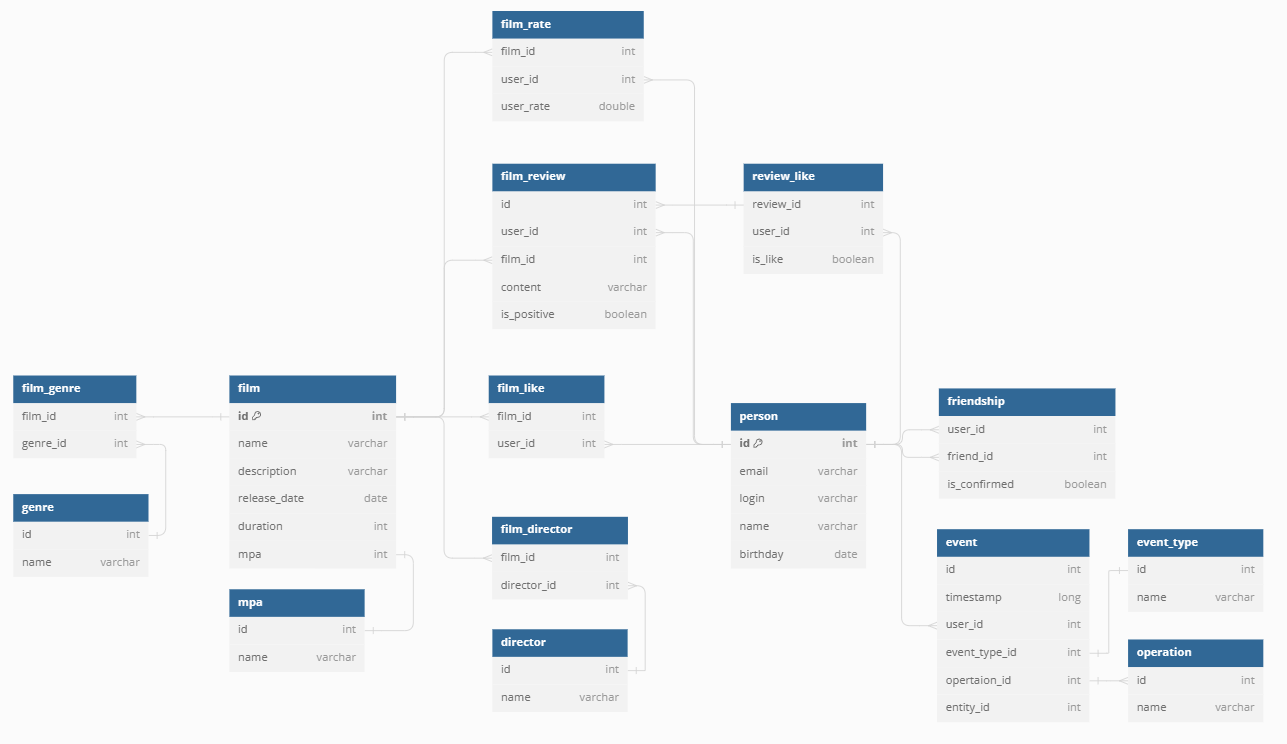
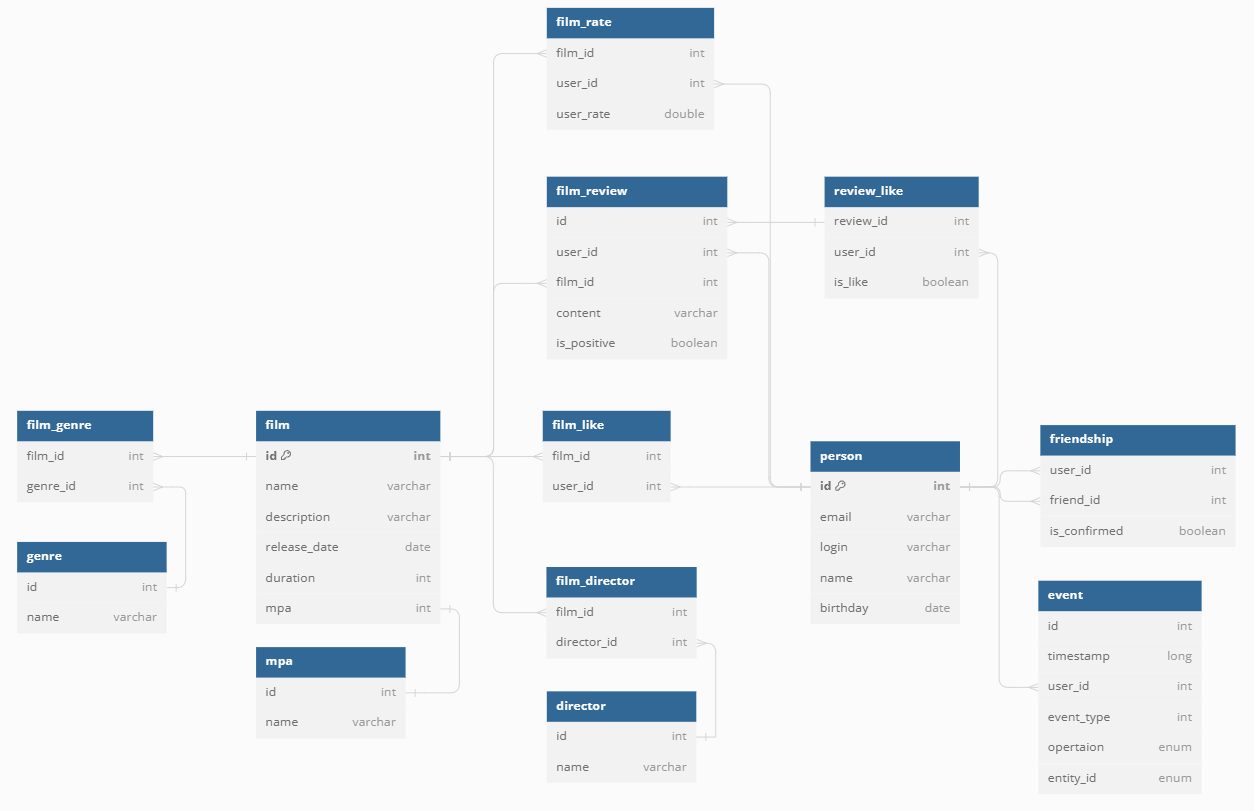
feature: add-feed

diff --git a/src/main/java/ru/yandex/practicum/filmorate/storage/userEvent/EventDbStorage.java b/src/main/java/ru/yandex/practicum/filmorate/storage/userEvent/EventDbStorage.java
@@ -3,11 +3,87 @@ package ru.yandex.practicum.filmorate.storage.userEvent;
 import lombok.RequiredArgsConstructor;
 import lombok.extern.slf4j.Slf4j;
 import org.springframework.jdbc.core.JdbcTemplate;
+import org.springframework.jdbc.core.RowMapper;
+import org.springframework.jdbc.core.simple.SimpleJdbcInsert;
 import org.springframework.stereotype.Component;
+import ru.yandex.practicum.filmorate.model.Event;
+import ru.yandex.practicum.filmorate.model.EventType;
+import ru.yandex.practicum.filmorate.model.Operation;
+
+import java.sql.ResultSet;
+import java.sql.SQLException;
+import java.util.HashMap;
+import java.util.List;
+import java.util.Map;
 
 @Component
 @RequiredArgsConstructor
 @Slf4j
 public class EventDbStorage implements EventStorage {
     private final JdbcTemplate jdbcTemplate;
+
+    @Override
+    public int addEvent(final Event event) {
+        log.debug("EventDbStorage - addEvent()");
+
+        log.info("Начала добавления события в таблицу: {}", event.toString());
+
+        SimpleJdbcInsert jdbcInsert = new SimpleJdbcInsert(jdbcTemplate)
+                .withTableName("event")
+                .usingGeneratedKeyColumns("id");
+
+        Map<String, Object> params = new HashMap<>();
+
+        params.put("time_stamp", event.getTimestamp());
+        params.put("user_id", event.getUserId());
+        params.put("entity_id", event.getEntityId());
+        params.put("event_type", event.getEventType().toString());
+        params.put("operation", event.getOperation().toString());
+
+        int eventId = jdbcInsert.executeAndReturnKey(params).intValue();
+        log.info("Занесено событие с id: {}", eventId);
+
+        return eventId;
+    }
+
+    @Override
+    public List<Event> getEventsByUserId(final int userId) {
+        log.debug("EventDbStorage - getEventsByUserId()");
+
+        String sqlRequest = "SELECT * FROM event WHERE user_id = ?;";
+        RowMapper<Event> eventMapper = (rs, rowNum) -> makeEvent(rs);
+
+        return jdbcTemplate.query(sqlRequest, eventMapper, userId);
+
+    }
+
+    @Override
+    public Event getEventById(int eventId) {
+        log.debug("EventDbStorage - getEventById())");
+
+        String sqlRequest = "SELECT * FROM event WHERE id = ?";
+        RowMapper<Event> eventMapper = (rs, rowNum) -> makeEvent(rs);
+
+        return jdbcTemplate.queryForObject(sqlRequest, eventMapper, eventId);
+    }
+
+    public Event makeEvent(ResultSet rs) throws SQLException {
+        log.debug("EventDbStorage - makeEvent())");
+
+        int eventId = rs.getInt("id");
+        long timestamp = rs.getLong("time_stamp");
+        int userId = rs.getInt("user_id");
+        EventType eventType = EventType.valueOf(rs.getString("event_type"));
+        Operation operation = Operation.valueOf(rs.getString("operation"));
+        int entityId = rs.getInt("entity_id");
+
+        return Event.builder()
+                .eventId(eventId)
+                .timestamp(timestamp)
+                .userId(userId)
+                .eventType(eventType)
+                .operation(operation)
+                .entityId(entityId)
+                .build();
+    }
 }

diff --git a/src/main/java/ru/yandex/practicum/filmorate/controller/UserController.java b/src/main/java/ru/yandex/practicum/filmorate/controller/UserController.java
@@ -4,9 +4,8 @@ import lombok.RequiredArgsConstructor;
 import lombok.extern.slf4j.Slf4j;
 import org.springframework.web.bind.annotation.*;
 import ru.yandex.practicum.filmorate.exception.MethodNotImplemented;
-import ru.yandex.practicum.filmorate.model.Event;
-import ru.yandex.practicum.filmorate.model.Film;
-import ru.yandex.practicum.filmorate.model.User;
+import ru.yandex.practicum.filmorate.model.*;
+import ru.yandex.practicum.filmorate.service.EventService;
 import ru.yandex.practicum.filmorate.service.UserService;
 
 import javax.validation.Valid;
@@ -18,6 +17,7 @@ import java.util.List;
 @RequestMapping("/users")
 public class UserController {
     private final UserService service;
+    private final EventService eventService;
 
     @GetMapping
     public List<User> receiveUsers(@RequestParam(defaultValue = "10") int count) {
@@ -45,15 +45,26 @@ public class UserController {
     @PutMapping(value = "/{id}/friends/{friendId}")
     public User addToFriend(@PathVariable(name = "id") int userId,
                             @PathVariable int friendId) {
-        log.debug("/users/{}/friends/{}} - PUT: addToFriend()", userId, friendId);
-        return service.addToFriend(userId, friendId);
+        log.debug("/users/{id}/friends/{friendId}} - PUT: addToFriend()");
+
+        User user = service.addToFriend(userId, friendId);
+
+        Event event = eventService.addEvent(userId, friendId, EventType.FRIEND, Operation.ADD);
+        log.info("Событие добавления в друзья к пользователю зарегистрировано: {}", event);
+
+        return user;
     }
 
     @DeleteMapping(value = "/{id}/friends/{friendId}")
     public User deleteFromFriend(@PathVariable(name = "id") int userId,
                                  @PathVariable int friendId) {
         log.debug("/users/{id}/friends/{friendId}} - DELETE: deleteFromFriend()");
-        return service.deleteFromFriend(userId, friendId);
+        User user = service.deleteFromFriend(userId, friendId);
+
+        Event event = eventService.addEvent(userId, friendId, EventType.FRIEND, Operation.REMOVE);
+        log.info("Событие добавления в друзья к пользователю зарегистрировано: {}", event);
+
+        return user;
     }
 
     @GetMapping(value = "/{id}/friends")
@@ -76,11 +87,10 @@ public class UserController {
         throw new MethodNotImplemented("Метод удаления пользователей по идентификатору");
     }
 
-    // TODO: Функциональность «Лента событий». 3 SP. Реализовать функциональность
     @GetMapping("/{id}/feed")
     public List<Event> getUserFeed(@PathVariable(name = "id") final int userId) {
         log.debug("/users/{}/feed - GET: getUserFeed()", userId);
-        throw new MethodNotImplemented("Метод получения списка событий пользователя");
+        return eventService.getUserFeed(userId);
     }
 
     //    TODO: Функциональность «Рекомендации». 3 SP. Реализовать функциональность

diff --git a/src/main/java/ru/yandex/practicum/filmorate/controller/ReviewController.java b/src/main/java/ru/yandex/practicum/filmorate/controller/ReviewController.java
@@ -3,7 +3,11 @@ package ru.yandex.practicum.filmorate.controller;
 import lombok.RequiredArgsConstructor;
 import lombok.extern.slf4j.Slf4j;
 import org.springframework.web.bind.annotation.*;
+import ru.yandex.practicum.filmorate.model.Event;
+import ru.yandex.practicum.filmorate.model.EventType;
+import ru.yandex.practicum.filmorate.model.Operation;
 import ru.yandex.practicum.filmorate.model.Review;
+import ru.yandex.practicum.filmorate.service.EventService;
 import ru.yandex.practicum.filmorate.service.ReviewService;
 
 import javax.validation.Valid;
@@ -15,23 +19,54 @@ import java.util.List;
 @RequestMapping("/reviews")
 public class ReviewController {
     private final ReviewService service;
+    private final EventService eventService;
 
     @PostMapping
     public Review createReview(@Valid @RequestBody final Review review) {
         log.debug("/reviews - POST: createReview()");
-        return service.createReview(review);
+
+        Review createdReview = service.createReview(review);
+
+        Event event = eventService.addEvent(createdReview.getUserId(),
+                createdReview.getId(),
+                EventType.REVIEW,
+                Operation.ADD);
+
+        log.info("Событие создания отзыва к фильму зарегистрировано: {}", event);
+
+        return createdReview;
     }
 
     @PutMapping
     public Review updateReview(@Valid @RequestBody final Review review) {
         log.debug("/reviews - PUT: updateReview()");
-        return service.updateReview(review);
+
+        Review updatedReview = service.updateReview(review);
+
+        Event event = eventService.addEvent(updatedReview.getUserId(),
+                updatedReview.getId(),
+                EventType.REVIEW,
+                Operation.UPDATE);
+
+        log.info("Событие создания отзыва к фильму зарегистрировано: {}", event);
+
+        return updatedReview;
     }
 
     @DeleteMapping("/{id}")
     public Review deleteReviewById(@PathVariable(name = "id") final int reviewId) {
         log.debug("/reviews/{} - DELETE: deleteReviewById()", reviewId);
-        return service.deleteReviewById(reviewId);
+
+        Review deletedReview = service.deleteReviewById(reviewId);
+
+        Event event = eventService.addEvent(deletedReview.getUserId(),
+                deletedReview.getId(),
+                EventType.REVIEW,
+                Operation.REMOVE);
+
+        log.info("Событие создания отзыва к фильму зарегистрировано: {}", event);
+
+        return deletedReview;
     }
 
     @GetMapping("/{id}")

diff --git a/src/main/java/ru/yandex/practicum/filmorate/controller/FilmController.java b/src/main/java/ru/yandex/practicum/filmorate/controller/FilmController.java
@@ -4,7 +4,11 @@ import lombok.RequiredArgsConstructor;
 import lombok.extern.slf4j.Slf4j;
 import org.springframework.web.bind.annotation.*;
 import ru.yandex.practicum.filmorate.exception.MethodNotImplemented;
+import ru.yandex.practicum.filmorate.model.Event;
+import ru.yandex.practicum.filmorate.model.EventType;
 import ru.yandex.practicum.filmorate.model.Film;
+import ru.yandex.practicum.filmorate.model.Operation;
+import ru.yandex.practicum.filmorate.service.EventService;
 import ru.yandex.practicum.filmorate.service.FilmService;
 
 import javax.validation.Valid;
@@ -16,6 +20,7 @@ import java.util.List;
 @RequestMapping("/films")
 public class FilmController {
     private final FilmService service;
+    private final EventService eventService;
 
     @GetMapping()
     public List<Film> receiveFilms(@RequestParam(defaultValue = "10") int count) {
@@ -44,13 +49,25 @@ public class FilmController {
     @PutMapping(value = "/{id}/like/{userId}")
     public Film like(@PathVariable(name = "id") int filmId, @PathVariable int userId) {
         log.debug("/films/{id}/like/{userId} - PUT: like()");
-        return service.like(filmId, userId);
+
+        Film film = service.like(filmId, userId);
+
+        Event event = eventService.addEvent(userId, filmId, EventType.LIKE, Operation.ADD);
+        log.info("Событие лайк к фильму зарегистрировано: {}", event);
+
+        return film;
     }
 
     @DeleteMapping(value = "/{id}/like/{userId}")
     public Film unlike(@PathVariable(name = "id") int filmId, @PathVariable(name = "userId") int userId) {
         log.debug("/films/{id}/like/{userId} - DELETE: unlike()");
-        return service.unlike(filmId, userId);
+
+        Film film = service.unlike(filmId, userId);
+
+        Event event = eventService.addEvent(userId, filmId, EventType.LIKE, Operation.REMOVE);
+        log.info("Событие лайк к фильму зарегистрировано: {}", event);
+
+        return film;
     }
 
     @GetMapping(value = "/popular")

diff --git a/src/main/java/ru/yandex/practicum/filmorate/service/EventService.java b/src/main/java/ru/yandex/practicum/filmorate/service/EventService.java
@@ -1,0 +1,52 @@
+package ru.yandex.practicum.filmorate.service;
+
+import lombok.RequiredArgsConstructor;
+import lombok.extern.slf4j.Slf4j;
+import org.springframework.stereotype.Service;
+import ru.yandex.practicum.filmorate.model.Event;
+import ru.yandex.practicum.filmorate.model.EventType;
+import ru.yandex.practicum.filmorate.model.Operation;
+import ru.yandex.practicum.filmorate.storage.userEvent.EventStorage;
+
+import java.time.Instant;
+import java.util.List;
+
+@Service
+@Slf4j
+@RequiredArgsConstructor
+public class EventService {
+    private final EventStorage eventStorage;
+    private final ExistChecker existChecker;
+
+    public Event addEvent(final int userId,
+                          final int entityId,
+                          final EventType evenType,
+                          final Operation operation) {
+        log.debug("EventService - service.addEvent()");
+
+        Event event = Event.builder()
+                .timestamp(Instant.now().toEpochMilli())
+                .eventType(evenType)
+                .operation(operation)
+                .userId(userId)
+                .entityId(entityId)
+                .build();
+
+        int id = eventStorage.addEvent(event);
+        log.info("Добавлено событие с id: {}", id);
+
+        Event addedEvent = eventStorage.getEventById(id);
+        log.info(addedEvent.toString());
+
+        return addedEvent;
+    }
+
+    public List<Event> getUserFeed(final int userId) {
+        log.debug("EventService - service.getUserFeed()");
+
+        existChecker.userIsExist(userId);
+
+        return eventStorage.getEventsByUserId(userId);
+    }
+
+}

diff --git a/src/main/java/ru/yandex/practicum/filmorate/model/Event.java b/src/main/java/ru/yandex/practicum/filmorate/model/Event.java
@@ -1,18 +1,22 @@
 package ru.yandex.practicum.filmorate.model;
 
+import lombok.Builder;
 import lombok.Data;
 
 import javax.validation.constraints.NotNull;
 
 @Data
+@Builder
 public class Event {
     private final int eventId; // PK
     @NotNull
-    private final long timestamp;
+    private final Long timestamp;
     @NotNull
-    private final int userId;
-    private final EvenType eventType;
+    private final Integer userId;
+    @NotNull
+    private final EventType eventType;
+    @NotNull
     private final Operation operation;
     @NotNull
-    private final int entityId; // Идентификатор сущности
+    private final Integer entityId; // Идентификатор сущности
 }

diff --git a/src/main/java/ru/yandex/practicum/filmorate/storage/userEvent/EventStorage.java b/src/main/java/ru/yandex/practicum/filmorate/storage/userEvent/EventStorage.java
@@ -1,4 +1,13 @@
 package ru.yandex.practicum.filmorate.storage.userEvent;
 
+import ru.yandex.practicum.filmorate.model.Event;
+
+import java.util.List;
+
 public interface EventStorage {
+    int addEvent(final Event event);
+
+    List<Event> getEventsByUserId(final int userId);
+
+    Event getEventById(final int id);
 }

diff --git a/src/main/java/ru/yandex/practicum/filmorate/model/EventType.java b/src/main/java/ru/yandex/practicum/filmorate/model/EventType.java
@@ -1,6 +1,6 @@
 package ru.yandex.practicum.filmorate.model;
 
-public enum EvenType {
+public enum EventType {
     LIKE,
     REVIEW,
     FRIEND

diff --git a/src/main/java/ru/yandex/practicum/filmorate/model/Operation.java b/src/main/java/ru/yandex/practicum/filmorate/model/Operation.java
@@ -1,7 +1,7 @@
 package ru.yandex.practicum.filmorate.model;
 
 public enum Operation {
-    REMOVE,
     ADD,
+    REMOVE,
     UPDATE
 }
